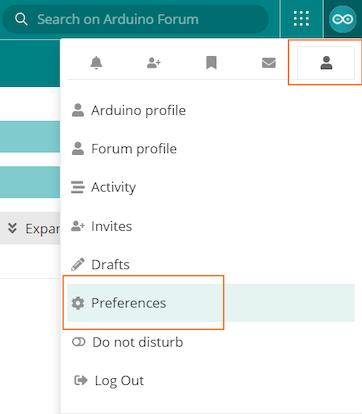
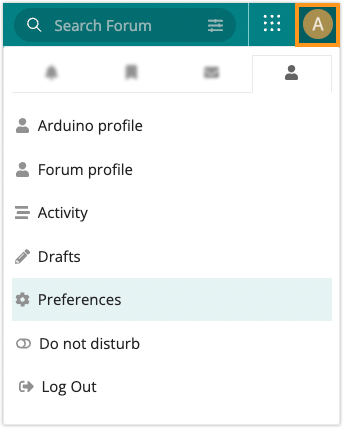
Specify username change period, general improvements.

diff --git a/content/About Arduino/My Arduino Account/Change-your-username-in-the-Arduino-Forum.md b/content/About Arduino/My Arduino Account/Change-your-username-in-the-Arduino-Forum.md
@@ -7,16 +7,24 @@ By default, your forum username will be the same as your Arduino account. If you
 
 ---
 
-1. Sign in to your [Arduino Forum](https://forum.arduino.cc/) account.
+## When you can change your username
 
-2. Click on your profile picture, select the Preference tab and click on Preferences.
+After registering your account you have 3 days to change your username.
+
+---
+
+## How to change your username
+
+1. Go to the [Arduino Forum](https://forum.arduino.cc/) and log in to your account.
+
+2. Click on your profile picture in the top-right to open the menu. Click the ![Preferences tab icon](img/icon_forum-profile.png) tab, then click on **Preferences**.
 
    ![From forum preference tab select preference to change username](img/open-forum-preferences.png)
 
-3. Under the **Username** heading, your current forum username will be displayed. Click the pencil icon next to it.
+3. Under **Username**, your current forum username will be displayed. Click the pencil icon next to it.
 
    ![Change forum profile name](img/ChangeForumUsername.png)
 
-4. Type in the new username.
+4. Enter a new username and click on **change**.
 
-5. Click on **Change**.
+   ![Clicking the "change" button.](img/forum-change-username-button.png)
